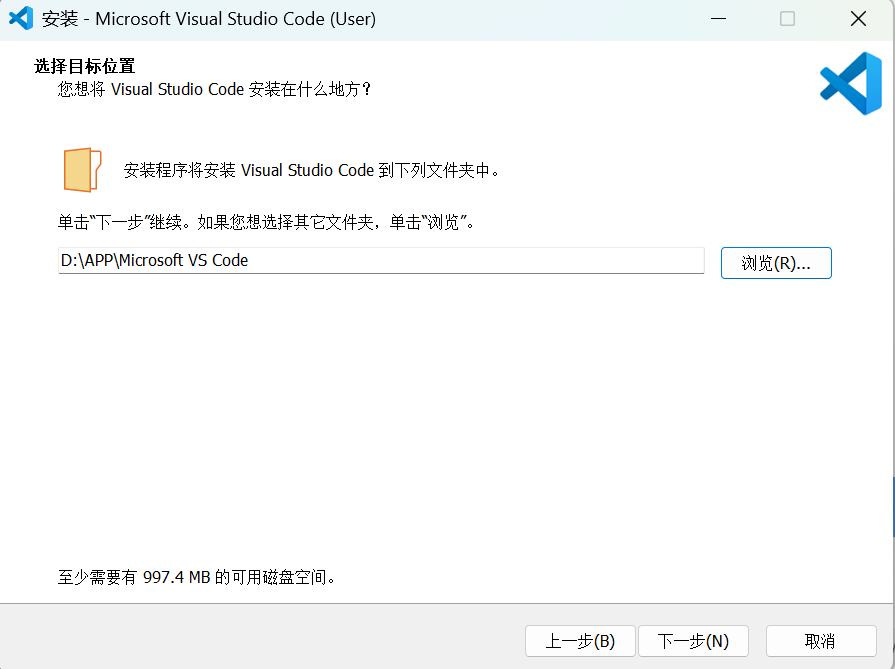
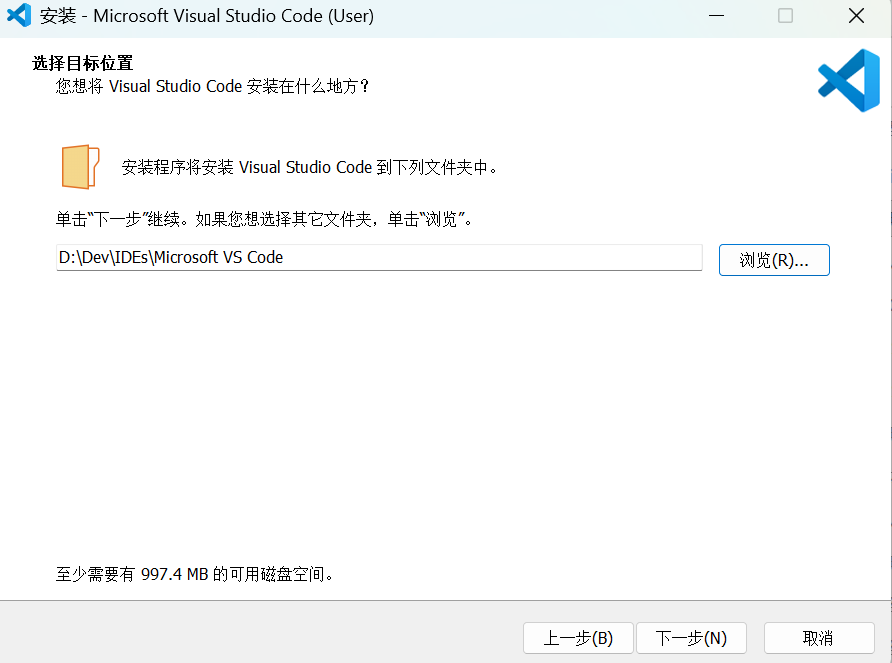
feat: 更新文档内容，修正图片链接格式，添加新图片

diff --git a/README.md b/README.md
@@ -1,1 +1,6 @@
 # 26年木犀团队后端组第一轮招新直播仓库
+在这里你将看到后端第一次直播所有内容的文档形式，包括内容如下
+* http的初步认识
+* 爬虫的概念和基本原理
+* 常用开发工具的安装与使用
+* GO的安装与简单练习
